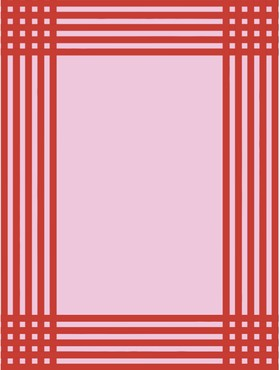
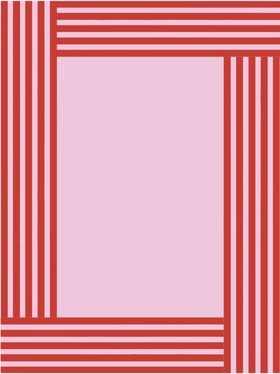
Add files via upload

Changed region(s): [[0.0, 0.0, 1.0, 1.0]]

diff --git a/js/customers.js b/js/customers.js
@@ -14,10 +14,6 @@
 
 window.FF_CUSTOMERS = [
   {
-    image: "images/customers/customer-01-watch-purses-duo.jpg",
-    caption: "Two watch purses out for the night."
-  },
-  {
     image: "images/customers/customer-04-winery-watch-purse.jpg",
     caption: "A watch purse out at the vineyard."
   },

diff --git a/css/main.css b/css/main.css
@@ -37,7 +37,7 @@ body{
   background-color: var(--cream);
   background-image: url('../images/bg-plaid-tile.jpg');
   background-repeat: repeat;
-  background-size: 280px 370px;
+  background-size: 280px 374px;
   color: var(--ink);
   font-family: var(--font-body);
   line-height: 1.5;
